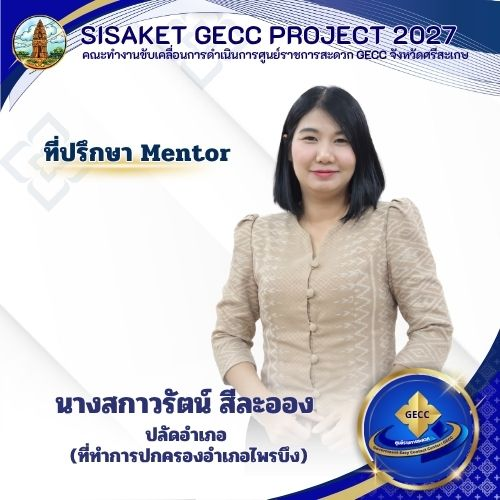
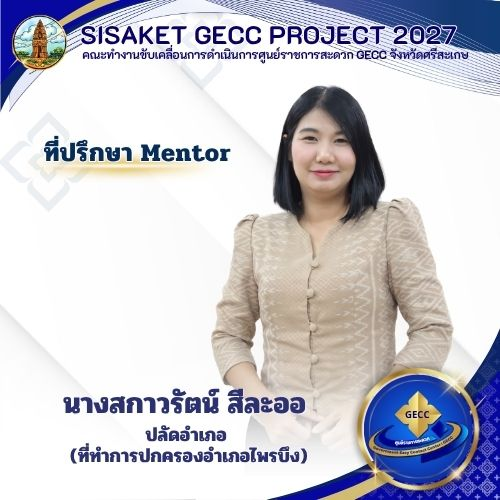
fix(mentors): update photos and name for P.Kaew and P.Mew (advisor 4,5 and mentor group 1-3, 2-1)

Changed region(s): [[0.09, 0.75, 0.63, 0.84]]

diff --git a/index.html b/index.html
@@ -2750,7 +2750,7 @@ const MENTOR_MEMBERS = {
       [
         "นายศรายุทธ สีละออง",
         "ปลัดอำเภอ ที่ทำการปกครองอำเภอเมืองศรีสะเกษ",
-        "assets/images/mentor-group-1-3.jpg",
+        "assets/images/mentor-group-1-3.jpg?v=2570b",
         "MENTOR",
         "0639038574"
       ],
@@ -2767,9 +2767,9 @@ const MENTOR_MEMBERS = {
     "focus": "งานปกครองอำเภอ และอำนวยความเป็นธรรม",
     "m": [
       [
-        "นางสกาวรัตน์ สีละออง",
+        "นางสาววรัตน์ สีละออ",
         "ปลัดอำเภอ ที่ทำการปกครองอำเภอไพรบึง",
-        "assets/images/mentor-group-2-1.jpg",
+        "assets/images/mentor-group-2-1.jpg?v=2570b",
         "หัวหน้าทีม",
         "0632087457"
       ],
@@ -3316,17 +3316,17 @@ const MENTOR_ADVISORS = [
     "loginUsername": "advisor-03"
   },
   {
-    "name": "นางสกาวรัตน์ สีละออง",
+    "name": "นางสาววรัตน์ สีละออ",
     "title": "ปลัดอำเภอ ที่ทำการปกครองอำเภอไพรบึง",
     "role": "ที่ปรึกษา MENTOR",
-    "photo": "assets/images/advisor-4.jpg",
+    "photo": "assets/images/advisor-4.jpg?v=2570b",
     "loginUsername": "advisor-04"
   },
   {
     "name": "นายศรายุทธ สีละออง",
     "title": "ปลัดอำเภอ ที่ทำการปกครองอำเภอเมืองศรีสะเกษ",
     "role": "ที่ปรึกษา MENTOR",
-    "photo": "assets/images/advisor-5.jpg",
+    "photo": "assets/images/advisor-5.jpg?v=2570b",
     "loginUsername": "advisor-05"
   },
   {
